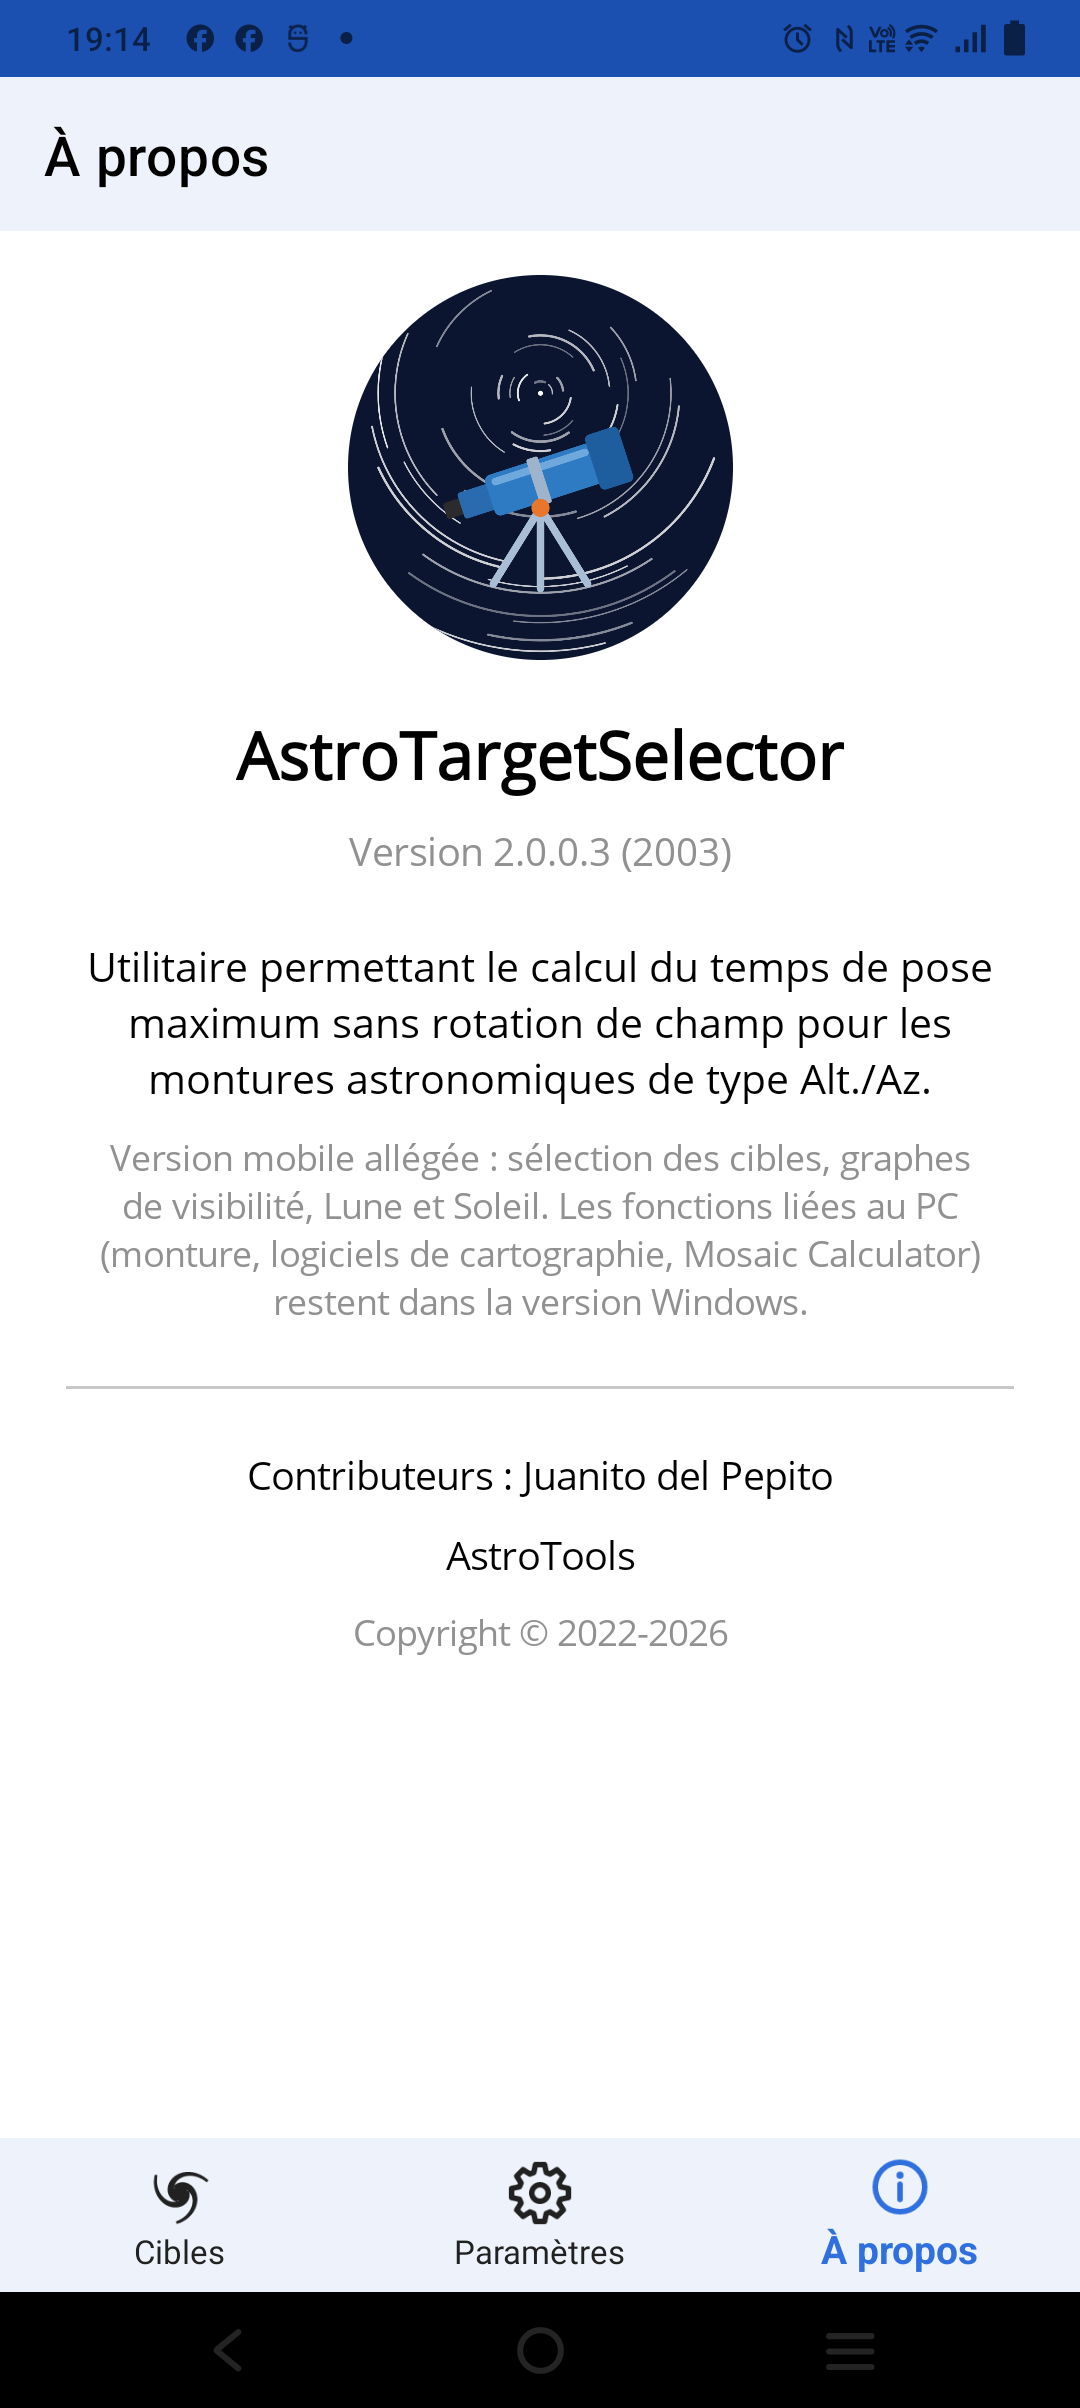
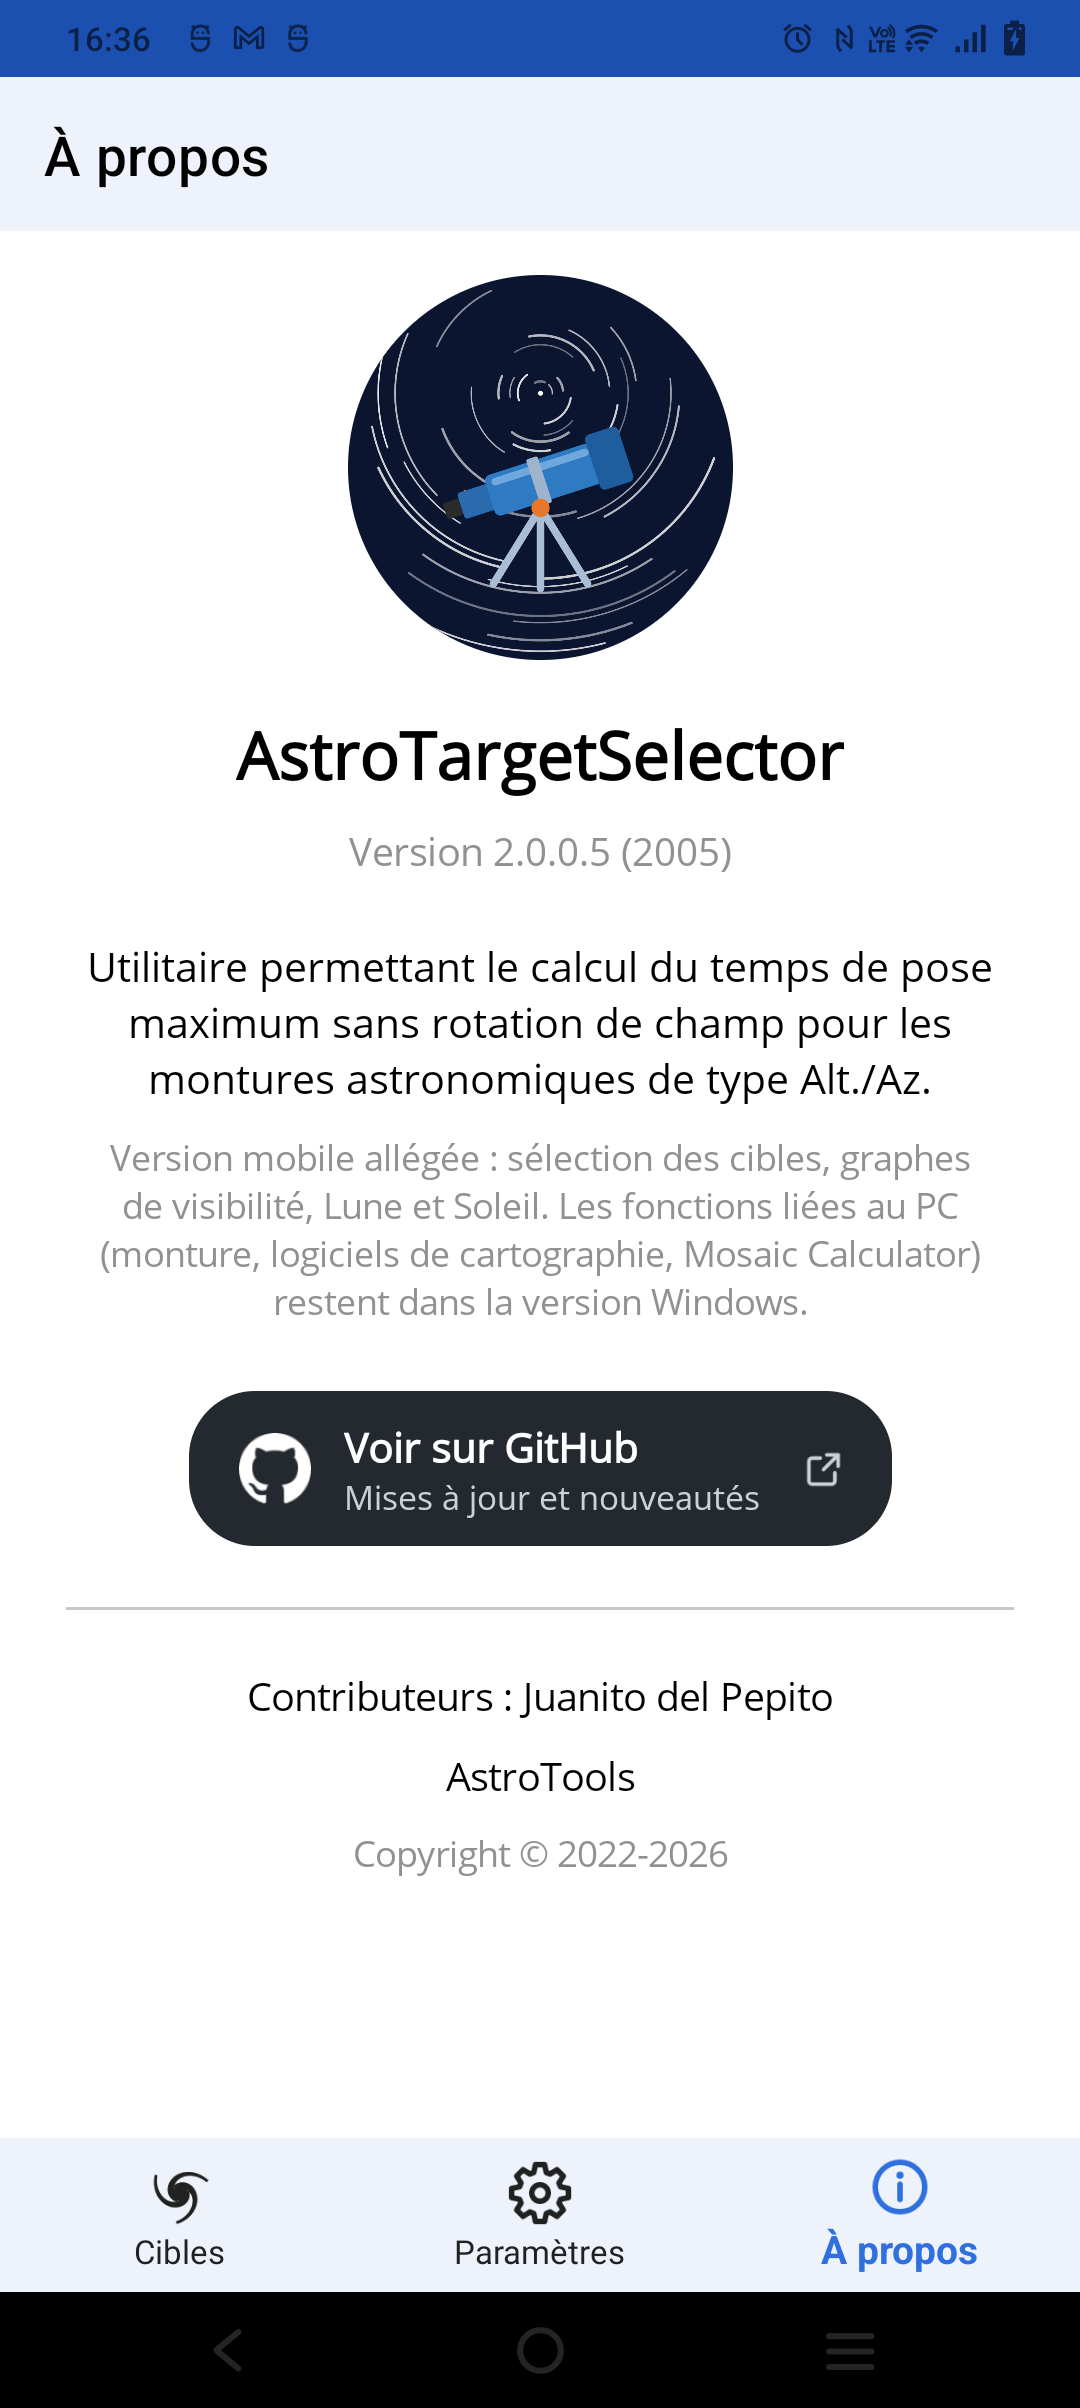
README : captures À propos (Windows 2.0.1.6, Android 2.0.0.5) et lien GitHub

diff --git a/README.md b/README.md
@@ -387,6 +387,7 @@ La barre de statut affiche la date et l'heure de l'observation, l'objet céleste
 ![Boîte de dialogue A propos](images/PC_Dlg_APropos.png)
 
 Cette boîte de dialogue affiche les informations à propos d'***AstroTargetSelector*** : version, auteur et description.\
+Le lien **Page GitHub d'AstroTargetSelector** ouvre cette page dans votre navigateur : vous y trouverez les dernières versions (Windows et Android) et les nouveautés.\
 Le bouton **Ouvrir le fichier des logs** permet d'ouvrir le fichier des logs de l'application.
 
 <p align="right"><a href="#sommaire">Retour au sommaire</a></p>
@@ -493,7 +494,8 @@ Il s'active depuis le bouton **Nuit** de l'onglet ***Cibles***, ou depuis l'ongl
 #### Onglet A propos
 <img src="images/Mobile_APropos.png" alt="A propos" width="300">
 
-L'onglet ***A propos*** affiche la version de l'application, sa description et ses auteurs.
+L'onglet ***A propos*** affiche la version de l'application, sa description et ses auteurs.\
+Le bouton **Voir sur GitHub** ouvre cette page dans le navigateur du téléphone : vous y trouverez les dernières versions et les nouveautés.
 
 <p align="right"><a href="#sommaire">Retour au sommaire</a></p>
 
